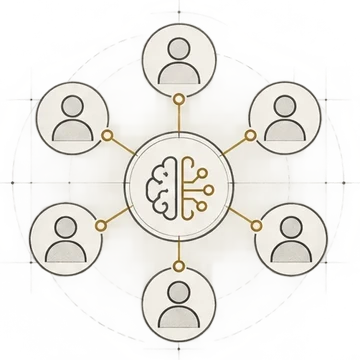
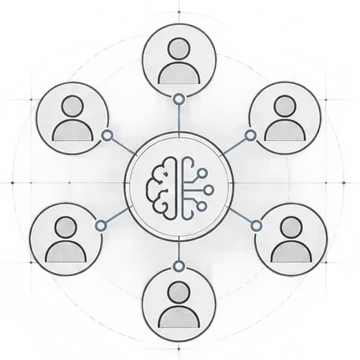
Content: program-first positioning, AI partner standard project, resume alignment
- Hero label, intro, page title and share text lead with technology programs
  and risk; contact lede leads with technical program roles
- New Selected Work card (03 of 05): aligning to a strategic AI partner's
  model-use standard, described at a high level and marked in progress
- Approach says rotating teams of 8-12
- AI enablement shows about 200 professionals; Microsoft entry adds about a
  dozen engagements a year, CFO reporting and AI governance
- Education card adds the Penn State IST Alumni Society board role
- Work illustrations recolored from gold to pewter, plus a new one for the
  AI standard card

Claude-Session: https://claude.ai/code/session_01SV6FrQDzMVaRoXeUdrznHo

diff --git a/index.html b/index.html
@@ -3,13 +3,13 @@
 <head>
 <meta charset="utf-8">
 <meta name="viewport" content="width=device-width, initial-scale=1">
-<meta name="description" content="Security and technology-risk leader at Microsoft. I bring clarity to complex technology decisions, working with engineers, aligning stakeholders, and helping leaders decide what happens next.">
+<meta name="description" content="Technology and risk leader at Microsoft. I bring clarity to complex technology decisions, working with engineers, aligning stakeholders, and helping leaders decide what happens next.">
 <link rel="canonical" href="https://www.nikita.page/">
 <meta property="og:type" content="website">
 <meta property="og:url" content="https://www.nikita.page/">
 <meta property="og:site_name" content="Nikita Page">
 <meta property="og:title" content="Nikita Page | Security and technology leadership">
-<meta property="og:description" content="Security and technology-risk leader at Microsoft. I bring clarity to complex technology decisions, working with engineers, aligning stakeholders, and helping leaders decide what happens next.">
+<meta property="og:description" content="Technology and risk leader at Microsoft. I bring clarity to complex technology decisions, working with engineers, aligning stakeholders, and helping leaders decide what happens next.">
 <meta property="og:image" content="https://www.nikita.page/assets/og-image.jpg">
 <meta property="og:image:width" content="1200">
 <meta property="og:image:height" content="630">
@@ -573,9 +573,9 @@ a:focus-visible,button:focus-visible{outline:2px solid #7D8691;outline-offset:3p
 
 
 <div data-np="hero" class="hero-content" style="position: relative; z-index: 10; align-self: stretch; box-sizing: border-box; display: flex; flex-direction: column; align-items: flex-start; text-align: left; will-change: transform, opacity">
-<div style="font-size: 11px; text-transform: uppercase; letter-spacing: 0.2em; color: rgba(55,56,58,0.68); font-weight: 500; margin-bottom: 18px">Nikita Page <span style="margin: 0 8px; opacity: 0.5">|</span> Security and technology leadership</div>
+<div style="font-size: 11px; text-transform: uppercase; letter-spacing: 0.2em; color: rgba(55,56,58,0.68); font-weight: 500; margin-bottom: 18px">Nikita Page <span style="margin: 0 8px; opacity: 0.5">|</span> Technology programs, risk and applied AI</div>
 <h1 class="serif hero-h1" style="margin: 0; max-width: 12.5em; line-height: 1.08; letter-spacing: -0.035em; color: #37383A; font-weight: 400">I bring clarity to complex technology decisions.</h1>
-<p class="hero-sub" style="margin-bottom: 0; font-size: 14px; color: rgba(55,56,58,0.7); line-height: 1.625">I’m a security and technology-risk leader at Microsoft. I work with engineers to understand complex systems, bring stakeholders together around the risks, and help leaders decide what needs to happen next.<span class="hide-m"> My work spans LinkedIn, Xbox and Copilot, with hands-on experience building AI tools that support the people doing the work.</span></p>
+<p class="hero-sub" style="margin-bottom: 0; font-size: 14px; color: rgba(55,56,58,0.7); line-height: 1.625">I’m a technology and risk leader at Microsoft. I work with engineers to understand complex systems, bring stakeholders together around the risks, and help leaders decide what needs to happen next.<span class="hide-m"> My work spans LinkedIn, Xbox and Copilot, with hands-on experience building AI tools that support the people doing the work.</span></p>
 <div class="hero-cta" style="display: flex; flex-wrap: wrap; gap: 12px"><a class="btn btn-hero" href="#work">Explore my work</a><a class="btn btn-hero btn-ghost" href="Nikita-Page-Resume.pdf" target="_blank" rel="noopener">View my resume</a></div>
 <div class="hero-facts-m">10 years across 8 industry sectors · Microsoft · Verizon · KPMG · Based in Denver</div>
 </div>
@@ -684,8 +684,9 @@ a:focus-visible,button:focus-visible{outline:2px solid #7D8691;outline-offset:3p
 <div class="deck-tabs" role="tablist" aria-label="Projects">
 <button class="deck-tab" type="button" role="tab" aria-selected="true"><span class="deck-tab-n">01</span><span class="deck-tab-t">Azure migration readiness across two acquisitions</span><span class="deck-tab-s">Azure migration</span><span class="deck-tab-bar" aria-hidden="true"></span></button>
 <button class="deck-tab" type="button" role="tab" aria-selected="false"><span class="deck-tab-n">02</span><span class="deck-tab-t">AI enablement for our entire department</span><span class="deck-tab-s">AI enablement</span><span class="deck-tab-bar" aria-hidden="true"></span></button>
-<button class="deck-tab" type="button" role="tab" aria-selected="false"><span class="deck-tab-n">03</span><span class="deck-tab-t">Establishing a shared view of secure development</span><span class="deck-tab-s">Secure development</span><span class="deck-tab-bar" aria-hidden="true"></span></button>
-<button class="deck-tab" type="button" role="tab" aria-selected="false"><span class="deck-tab-n">04</span><span class="deck-tab-t">An AI hub for evidence review</span><span class="deck-tab-s">AI evidence hub</span><span class="deck-tab-bar" aria-hidden="true"></span></button>
+<button class="deck-tab" type="button" role="tab" aria-selected="false"><span class="deck-tab-n">03</span><span class="deck-tab-t">Aligning to an AI partner’s model-use standard</span><span class="deck-tab-s">AI governance</span><span class="deck-tab-bar" aria-hidden="true"></span></button>
+<button class="deck-tab" type="button" role="tab" aria-selected="false"><span class="deck-tab-n">04</span><span class="deck-tab-t">Establishing a shared view of secure development</span><span class="deck-tab-s">Secure development</span><span class="deck-tab-bar" aria-hidden="true"></span></button>
+<button class="deck-tab" type="button" role="tab" aria-selected="false"><span class="deck-tab-n">05</span><span class="deck-tab-t">An AI hub for evidence review</span><span class="deck-tab-s">AI evidence hub</span><span class="deck-tab-bar" aria-hidden="true"></span></button>
 </div>
 <div class="deck-main">
 <div class="deck-stack">
@@ -702,16 +703,26 @@ a:focus-visible,button:focus-visible{outline:2px solid #7D8691;outline-offset:3p
 <article class="work-card deck-card" data-pos="1" aria-hidden="true"><img loading="lazy" decoding="async" class="work-art" src="assets/work-enablement.webp" alt="">
 <div style="font-size: 11px; text-transform: uppercase; letter-spacing: 0.2em; color: rgba(55,56,58,0.68); font-weight: 500">02</div>
 <h3 class="serif" style="margin: 0; font-size: 28px; line-height: 1.18; letter-spacing: -0.02em; font-weight: 400">AI enablement for our entire department</h3>
-<div class="proof-line"><span>13 contributors</span><span>2 months</span><span>Entire department</span></div>
+<div class="proof-line"><span>13 contributors</span><span>2 months</span><span>About 200 professionals</span></div>
 <dl class="pw">
 <div><dt>Problem</dt><dd>Our audit, risk and compliance department needed practical, credible examples of how AI could support their everyday work.</dd></div>
 <div><dt>What I owned</dt><dd>I led 13 contributors over two months. I met contributors individually to shape their use cases, integrated them into one storyline across planning, fieldwork and reporting, and built the demo chatbots and interactive demo audit myself.</dd></div>
-<div><dt>Result</dt><dd>A one-hour enablement session for the entire department, with concrete demonstrations they could map to their own work.</dd></div>
+<div><dt>Result</dt><dd>A one-hour enablement session for the entire department, about 200 audit, risk and compliance professionals, with concrete demonstrations they could map to their own work.</dd></div>
 </dl>
 <div style="display: flex; flex-wrap: wrap; gap: 6px; margin-top: 4px"><span class="tlx-tag">Copilot Studio</span><span class="tlx-tag">Microsoft Foundry</span><span class="tlx-tag">Azure</span></div>
 </article>
-<article class="work-card deck-card" data-pos="2" aria-hidden="true"><img loading="lazy" decoding="async" class="work-art" src="assets/work-securedev.webp" alt="">
+<article class="work-card deck-card" data-pos="2" aria-hidden="true"><img loading="lazy" decoding="async" class="work-art" src="assets/work-ai-standard.webp" alt="">
 <div style="font-size: 11px; text-transform: uppercase; letter-spacing: 0.2em; color: rgba(55,56,58,0.68); font-weight: 500">03</div>
+<h3 class="serif" style="margin: 0; font-size: 28px; line-height: 1.18; letter-spacing: -0.02em; font-weight: 400">Aligning to an AI partner’s model-use standard</h3>
+<div class="proof-line"><span>AI governance</span><span>Model access and use</span><span>In progress</span></div>
+<dl class="pw">
+<div><dt>Problem</dt><dd>A strategic AI partner sets privacy and security expectations for how its models are accessed and used, and Microsoft needs a clear view of how its own controls line up against them.</dd></div>
+<div><dt>What I own</dt><dd>I’m assessing that alignment: translating the standard into testable requirements and testing controls over data retention, access and enforcement across the channels where the models are used.</dd></div>
+<div><dt>Result</dt><dd>Work in progress, building a clear picture of where controls already align and where they need attention, to guide remediation.</dd></div>
+</dl>
+</article>
+<article class="work-card deck-card" data-pos="3" aria-hidden="true"><img loading="lazy" decoding="async" class="work-art" src="assets/work-securedev.webp" alt="">
+<div style="font-size: 11px; text-transform: uppercase; letter-spacing: 0.2em; color: rgba(55,56,58,0.68); font-weight: 500">04</div>
 <h3 class="serif" style="margin: 0; font-size: 28px; line-height: 1.18; letter-spacing: -0.02em; font-weight: 400">Establishing a shared view of secure development</h3>
 <div class="proof-line"><span>ABK, ZeniMax and Minecraft</span><span>Gaming audit planning</span></div>
 <dl class="pw">
@@ -721,7 +732,7 @@ a:focus-visible,button:focus-visible{outline:2px solid #7D8691;outline-offset:3p
 </dl>
 </article>
 <article class="work-card deck-card" data-pos="3" aria-hidden="true"><img loading="lazy" decoding="async" class="work-art" src="assets/work-evidence.webp" alt="">
-<div style="font-size: 11px; text-transform: uppercase; letter-spacing: 0.2em; color: rgba(55,56,58,0.68); font-weight: 500">04</div>
+<div style="font-size: 11px; text-transform: uppercase; letter-spacing: 0.2em; color: rgba(55,56,58,0.68); font-weight: 500">05</div>
 <h3 class="serif" style="margin: 0; font-size: 28px; line-height: 1.18; letter-spacing: -0.02em; font-weight: 400">An AI hub for evidence review</h3>
 <div class="proof-line"><span>Built personally</span><span>Applied on one audit</span><span>Auditor-reviewed</span></div>
 <dl class="pw">
@@ -733,7 +744,7 @@ a:focus-visible,button:focus-visible{outline:2px solid #7D8691;outline-offset:3p
 </div>
 <div class="deck-controls">
 <button class="deck-btn deck-prev" type="button" aria-label="Previous project"><svg viewBox="0 0 24 24" fill="none" stroke="currentColor" stroke-width="2" stroke-linecap="round" stroke-linejoin="round" aria-hidden="true" style="width: 18px; height: 18px"><path d="M19 12H5"></path><path d="m12 19-7-7 7-7"></path></svg></button>
-<span class="deck-count" aria-live="polite">01 / 04</span>
+<span class="deck-count" aria-live="polite">01 / 05</span>
 <button class="deck-btn deck-next" type="button" aria-label="Next project"><svg viewBox="0 0 24 24" fill="none" stroke="currentColor" stroke-width="2" stroke-linecap="round" stroke-linejoin="round" aria-hidden="true" style="width: 18px; height: 18px"><path d="M5 12h14"></path><path d="m12 5 7 7-7 7"></path></svg></button>
 </div>
 </div>
@@ -854,7 +865,7 @@ a:focus-visible,button:focus-visible{outline:2px solid #7D8691;outline-offset:3p
 <div class="appr-art"><img loading="lazy" decoding="async" src="assets/approach-shared.webp" alt=""></div>
 <div style="font-size: 11px; text-transform: uppercase; letter-spacing: 0.2em; color: rgba(55,56,58,0.6); font-weight: 500">02</div>
 <h3 class="serif" style="margin: 0; font-size: 26px; line-height: 1.2; letter-spacing: -0.02em; font-weight: 400">Find the shared picture</h3>
-<p style="margin: 0; font-size: 15px; line-height: 1.65; color: rgba(55,56,58,0.8)">I lead teams of 8–12 and make scope, ownership and dependencies clear, so everyone can see how their work fits together.</p>
+<p style="margin: 0; font-size: 15px; line-height: 1.65; color: rgba(55,56,58,0.8)">I lead rotating teams of 8–12 and make scope, ownership and dependencies clear, so everyone can see how their work fits together.</p>
 </article>
 <article class="appr-card">
 <div class="appr-art"><img loading="lazy" decoding="async" src="assets/approach-decision.webp" alt=""></div>
@@ -880,7 +891,7 @@ a:focus-visible,button:focus-visible{outline:2px solid #7D8691;outline-offset:3p
 </div>
 <h3 class="serif" style="margin: 20px 0 0; font-size: 26px; line-height: 1.2; letter-spacing: -0.02em; font-weight: 400">Senior IT Audit Manager</h3>
 <div style="margin-top: 4px; font-size: 14px; color: rgba(55,56,58,0.68)">Microsoft</div>
-<p style="margin: 14px 0 0; font-size: 15px; line-height: 1.65; color: rgba(55,56,58,0.85)">I lead security, AI and operational-risk engagements across Microsoft’s product, engineering and infrastructure organizations, from scoping through executive reporting. My work includes LinkedIn, Xbox and Copilot, alongside advisory and assessment work across cloud, hardware and datacenters.</p>
+<p style="margin: 14px 0 0; font-size: 15px; line-height: 1.65; color: rgba(55,56,58,0.85)">I lead security, AI and operational-risk engagements across Microsoft’s product, engineering and infrastructure organizations, from scoping through executive reporting. I run about a dozen engagements a year, and engagement reports are distributed to the CFO. My work includes LinkedIn, Xbox and Copilot, alongside AI governance, advisory and assessment work across cloud, hardware and datacenters.</p>
 </article>
 <div class="tlx-side">
 <div class="serif tlx-year">2021</div>
@@ -940,6 +951,7 @@ a:focus-visible,button:focus-visible{outline:2px solid #7D8691;outline-offset:3p
 </div>
 <h3 class="serif" style="margin: 20px 0 0; font-size: 26px; line-height: 1.2; letter-spacing: -0.02em; font-weight: 400">B.S. in Information Sciences and Technology</h3>
 <div style="margin-top: 4px; font-size: 14px; color: rgba(55,56,58,0.68)">Penn State University</div>
+<p style="margin: 16px 0 0; font-size: 15px; line-height: 1.65; color: rgba(55,56,58,0.8)">I also served on the Board of Directors of the Penn State IST Alumni Society (2018–2026), organizing alumni-student programs including IST ConnectX, iConnect Live and Hackathon 101, and leading student workshops and technical learning sessions.</p>
 
 </article>
 <div class="tlx-side">
@@ -1032,7 +1044,7 @@ a:focus-visible,button:focus-visible{outline:2px solid #7D8691;outline-offset:3p
 <div class="ct-intro">
 <div style="font-size: 11px; text-transform: uppercase; letter-spacing: 0.2em; color: rgba(255,255,255,0.55); font-weight: 500">Contact</div>
 <h2 class="serif sec-h2" style="margin: 12px 0 0; line-height: 1.08; letter-spacing: -0.03em; font-weight: 400; color: #FFFFFF">Let’s talk about what comes next.</h2>
-<p class="ct-lede">I’m interested in security and technology-risk leadership, as well as technical program roles that draw on my experience with complex systems and cross-team coordination. If that sounds like the work your team is doing, I’d welcome a conversation.</p>
+<p class="ct-lede">I’m interested in technical program and program management roles that draw on my experience with complex systems and cross-team coordination, as well as technology-risk and AI governance work. If that sounds like the work your team is doing, I’d welcome a conversation.</p>
 <ul class="ct-list">
 <li><a href="mailto:connect@nikita.page"><span class="ct-ic"><svg viewBox="0 0 24 24" fill="none" stroke="currentColor" stroke-width="1.7" stroke-linecap="round" stroke-linejoin="round" aria-hidden="true"><rect x="3" y="5" width="18" height="14" rx="2"/><path d="m3.5 6.5 8.5 6 8.5-6"/></svg></span><span class="ct-txt"><span class="ct-k">Email</span><span class="ct-v">connect@nikita.page</span></span><span class="ct-go"><svg viewBox="0 0 24 24" fill="none" stroke="currentColor" stroke-width="1.7" stroke-linecap="round" stroke-linejoin="round" aria-hidden="true"><path d="M7 17 17 7M9 7h8v8"/></svg></span></a></li>
 <li><a href="https://www.linkedin.com/in/nikitapage" target="_blank" rel="noopener"><span class="ct-ic"><svg viewBox="0 0 24 24" fill="none" stroke="currentColor" stroke-width="1.7" stroke-linecap="round" stroke-linejoin="round" aria-hidden="true"><rect x="3" y="3" width="18" height="18" rx="3"/><path d="M8 10.5V16M8 7.6v.01M11.5 16v-3.2c0-1.4 1-2.3 2.2-2.3s2.1.9 2.1 2.3V16M11.5 10.5V16"/></svg></span><span class="ct-txt"><span class="ct-k">LinkedIn</span><span class="ct-v">linkedin.com/in/nikitapage</span></span><span class="ct-go"><svg viewBox="0 0 24 24" fill="none" stroke="currentColor" stroke-width="1.7" stroke-linecap="round" stroke-linejoin="round" aria-hidden="true"><path d="M7 17 17 7M9 7h8v8"/></svg></span></a></li>

diff --git a/design/Main.dc.html b/design/Main.dc.html
@@ -2,7 +2,7 @@
 <html lang="en">
 <head>
 <meta charset="utf-8">
-<title>Nikita Page | Security and technology leadership</title>
+<title>Nikita Page | Technology programs, risk and applied AI</title>
 <script src="./support.js"></script>
 </head>
 <body>
@@ -571,9 +571,9 @@ a:focus-visible,button:focus-visible{outline:2px solid #7D8691;outline-offset:3p
 
 
 <div ref="{{setHero}}" class="hero-content" style="position: relative; z-index: 10; align-self: stretch; box-sizing: border-box; display: flex; flex-direction: column; align-items: flex-start; text-align: left; will-change: transform, opacity">
-<div style="font-size: 11px; text-transform: uppercase; letter-spacing: 0.2em; color: rgba(55,56,58,0.68); font-weight: 500; margin-bottom: 18px">Nikita Page <span style="margin: 0 8px; opacity: 0.5">|</span> Security and technology leadership</div>
+<div style="font-size: 11px; text-transform: uppercase; letter-spacing: 0.2em; color: rgba(55,56,58,0.68); font-weight: 500; margin-bottom: 18px">Nikita Page <span style="margin: 0 8px; opacity: 0.5">|</span> Technology programs, risk and applied AI</div>
 <h1 class="serif hero-h1" style="margin: 0; max-width: 12.5em; line-height: 1.08; letter-spacing: -0.035em; color: #37383A; font-weight: 400">I bring clarity to complex technology decisions.</h1>
-<p class="hero-sub" style="margin-bottom: 0; font-size: 14px; color: rgba(55,56,58,0.7); line-height: 1.625">I’m a security and technology-risk leader at Microsoft. I work with engineers to understand complex systems, bring stakeholders together around the risks, and help leaders decide what needs to happen next.<span class="hide-m"> My work spans LinkedIn, Xbox and Copilot, with hands-on experience building AI tools that support the people doing the work.</span></p>
+<p class="hero-sub" style="margin-bottom: 0; font-size: 14px; color: rgba(55,56,58,0.7); line-height: 1.625">I’m a technology and risk leader at Microsoft. I work with engineers to understand complex systems, bring stakeholders together around the risks, and help leaders decide what needs to happen next.<span class="hide-m"> My work spans LinkedIn, Xbox and Copilot, with hands-on experience building AI tools that support the people doing the work.</span></p>
 <div class="hero-cta" style="display: flex; flex-wrap: wrap; gap: 12px"><a class="btn btn-hero" href="#work">Explore my work</a><a class="btn btn-hero btn-ghost" href="Resume.dc.html">View my resume</a></div>
 <div class="hero-facts-m">10 years across 8 industry sectors · Microsoft · Verizon · KPMG · Based in Denver</div>
 </div>
@@ -682,12 +682,13 @@ a:focus-visible,button:focus-visible{outline:2px solid #7D8691;outline-offset:3p
 <div class="deck-tabs" role="tablist" aria-label="Projects">
 <button class="deck-tab" type="button" role="tab" aria-selected="true"><span class="deck-tab-n">01</span><span class="deck-tab-t">Azure migration readiness across two acquisitions</span><span class="deck-tab-s">Azure migration</span><span class="deck-tab-bar" aria-hidden="true"></span></button>
 <button class="deck-tab" type="button" role="tab" aria-selected="false"><span class="deck-tab-n">02</span><span class="deck-tab-t">AI enablement for our entire department</span><span class="deck-tab-s">AI enablement</span><span class="deck-tab-bar" aria-hidden="true"></span></button>
-<button class="deck-tab" type="button" role="tab" aria-selected="false"><span class="deck-tab-n">03</span><span class="deck-tab-t">Establishing a shared view of secure development</span><span class="deck-tab-s">Secure development</span><span class="deck-tab-bar" aria-hidden="true"></span></button>
-<button class="deck-tab" type="button" role="tab" aria-selected="false"><span class="deck-tab-n">04</span><span class="deck-tab-t">An AI hub for evidence review</span><span class="deck-tab-s">AI evidence hub</span><span class="deck-tab-bar" aria-hidden="true"></span></button>
+<button class="deck-tab" type="button" role="tab" aria-selected="false"><span class="deck-tab-n">03</span><span class="deck-tab-t">Aligning to an AI partner’s model-use standard</span><span class="deck-tab-s">AI governance</span><span class="deck-tab-bar" aria-hidden="true"></span></button>
+<button class="deck-tab" type="button" role="tab" aria-selected="false"><span class="deck-tab-n">04</span><span class="deck-tab-t">Establishing a shared view of secure development</span><span class="deck-tab-s">Secure development</span><span class="deck-tab-bar" aria-hidden="true"></span></button>
+<button class="deck-tab" type="button" role="tab" aria-selected="false"><span class="deck-tab-n">05</span><span class="deck-tab-t">An AI hub for evidence review</span><span class="deck-tab-s">AI evidence hub</span><span class="deck-tab-bar" aria-hidden="true"></span></button>
 </div>
 <div class="deck-main">
 <div class="deck-stack">
-<article class="work-card deck-card" data-pos="0" aria-hidden="false"><img class="work-art" src="/_blob/4cefba8785268eb628d6f7fdc83338a0" alt="">
+<article class="work-card deck-card" data-pos="0" aria-hidden="false"><img class="work-art" src="/_blob/63a4e942c38523db37dcfd0c586c0d23" alt="">
 <div style="font-size: 11px; text-transform: uppercase; letter-spacing: 0.2em; color: rgba(55,56,58,0.68); font-weight: 500">01</div>
 <h3 class="serif" style="margin: 0; font-size: 28px; line-height: 1.18; letter-spacing: -0.02em; font-weight: 400">Azure migration readiness across two acquisitions</h3>
 <div class="proof-line"><span>2 acquisitions</span><span>Migration readiness and ownership</span></div>
@@ -697,19 +698,29 @@ a:focus-visible,button:focus-visible{outline:2px solid #7D8691;outline-offset:3p
 <div><dt>Result</dt><dd>A structured view of ownership and readiness, agreed with a senior executive, to inform migration decisions.</dd></div>
 </dl>
 </article>
-<article class="work-card deck-card" data-pos="1" aria-hidden="true"><img class="work-art" src="/_blob/31432c3e8a34120a2325c508c727bb9d" alt="">
+<article class="work-card deck-card" data-pos="1" aria-hidden="true"><img class="work-art" src="/_blob/75763187c55913a427f4e7496b55120a" alt="">
 <div style="font-size: 11px; text-transform: uppercase; letter-spacing: 0.2em; color: rgba(55,56,58,0.68); font-weight: 500">02</div>
 <h3 class="serif" style="margin: 0; font-size: 28px; line-height: 1.18; letter-spacing: -0.02em; font-weight: 400">AI enablement for our entire department</h3>
-<div class="proof-line"><span>13 contributors</span><span>2 months</span><span>Entire department</span></div>
+<div class="proof-line"><span>13 contributors</span><span>2 months</span><span>About 200 professionals</span></div>
 <dl class="pw">
 <div><dt>Problem</dt><dd>Our audit, risk and compliance department needed practical, credible examples of how AI could support their everyday work.</dd></div>
 <div><dt>What I owned</dt><dd>I led 13 contributors over two months. I met contributors individually to shape their use cases, integrated them into one storyline across planning, fieldwork and reporting, and built the demo chatbots and interactive demo audit myself.</dd></div>
-<div><dt>Result</dt><dd>A one-hour enablement session for the entire department, with concrete demonstrations they could map to their own work.</dd></div>
+<div><dt>Result</dt><dd>A one-hour enablement session for the entire department, about 200 audit, risk and compliance professionals, with concrete demonstrations they could map to their own work.</dd></div>
 </dl>
 <div style="display: flex; flex-wrap: wrap; gap: 6px; margin-top: 4px"><span class="tlx-tag">Copilot Studio</span><span class="tlx-tag">Microsoft Foundry</span><span class="tlx-tag">Azure</span></div>
 </article>
-<article class="work-card deck-card" data-pos="2" aria-hidden="true"><img class="work-art" src="/_blob/7bdd5f0eaca0940a9cea751541684b90" alt="">
+<article class="work-card deck-card" data-pos="2" aria-hidden="true"><img class="work-art" src="/_blob/1b8ac6cf3539ea2abfee079108aeeb62" alt="">
 <div style="font-size: 11px; text-transform: uppercase; letter-spacing: 0.2em; color: rgba(55,56,58,0.68); font-weight: 500">03</div>
+<h3 class="serif" style="margin: 0; font-size: 28px; line-height: 1.18; letter-spacing: -0.02em; font-weight: 400">Aligning to an AI partner’s model-use standard</h3>
+<div class="proof-line"><span>AI governance</span><span>Model access and use</span><span>In progress</span></div>
+<dl class="pw">
+<div><dt>Problem</dt><dd>A strategic AI partner sets privacy and security expectations for how its models are accessed and used, and Microsoft needs a clear view of how its own controls line up against them.</dd></div>
+<div><dt>What I own</dt><dd>I’m assessing that alignment: translating the standard into testable requirements and testing controls over data retention, access and enforcement across the channels where the models are used.</dd></div>
+<div><dt>Result</dt><dd>Work in progress, building a clear picture of where controls already align and where they need attention, to guide remediation.</dd></div>
+</dl>
+</article>
+<article class="work-card deck-card" data-pos="3" aria-hidden="true"><img class="work-art" src="/_blob/43f18def865be815a4cf272a68ab9c9c" alt="">
+<div style="font-size: 11px; text-transform: uppercase; letter-spacing: 0.2em; color: rgba(55,56,58,0.68); font-weight: 500">04</div>
 <h3 class="serif" style="margin: 0; font-size: 28px; line-height: 1.18; letter-spacing: -0.02em; font-weight: 400">Establishing a shared view of secure development</h3>
 <div class="proof-line"><span>ABK, ZeniMax and Minecraft</span><span>Gaming audit planning</span></div>
 <dl class="pw">
@@ -718,8 +729,8 @@ a:focus-visible,button:focus-visible{outline:2px solid #7D8691;outline-offset:3p
 <div><dt>Result</dt><dd>A shared secure-development baseline for subsequent gaming audit planning.</dd></div>
 </dl>
 </article>
-<article class="work-card deck-card" data-pos="3" aria-hidden="true"><img class="work-art" src="/_blob/3415aa425ddd9e431d0abaa0a737ff9a" alt="">
-<div style="font-size: 11px; text-transform: uppercase; letter-spacing: 0.2em; color: rgba(55,56,58,0.68); font-weight: 500">04</div>
+<article class="work-card deck-card" data-pos="3" aria-hidden="true"><img class="work-art" src="/_blob/81c4b773e75f956b1b89a53c21957579" alt="">
+<div style="font-size: 11px; text-transform: uppercase; letter-spacing: 0.2em; color: rgba(55,56,58,0.68); font-weight: 500">05</div>
 <h3 class="serif" style="margin: 0; font-size: 28px; line-height: 1.18; letter-spacing: -0.02em; font-weight: 400">An AI hub for evidence review</h3>
 <div class="proof-line"><span>Built personally</span><span>Applied on one audit</span><span>Auditor-reviewed</span></div>
 <dl class="pw">
@@ -731,7 +742,7 @@ a:focus-visible,button:focus-visible{outline:2px solid #7D8691;outline-offset:3p
 </div>
 <div class="deck-controls">
 <button class="deck-btn deck-prev" type="button" aria-label="Previous project"><svg viewBox="0 0 24 24" fill="none" stroke="currentColor" stroke-width="2" stroke-linecap="round" stroke-linejoin="round" aria-hidden="true" style="width: 18px; height: 18px"><path d="M19 12H5"></path><path d="m12 19-7-7 7-7"></path></svg></button>
-<span class="deck-count" aria-live="polite">01 / 04</span>
+<span class="deck-count" aria-live="polite">01 / 05</span>
 <button class="deck-btn deck-next" type="button" aria-label="Next project"><svg viewBox="0 0 24 24" fill="none" stroke="currentColor" stroke-width="2" stroke-linecap="round" stroke-linejoin="round" aria-hidden="true" style="width: 18px; height: 18px"><path d="M5 12h14"></path><path d="m12 5 7 7-7 7"></path></svg></button>
 </div>
 </div>
@@ -852,7 +863,7 @@ a:focus-visible,button:focus-visible{outline:2px solid #7D8691;outline-offset:3p
 <div class="appr-art"><img src="/_blob/5a799255273e51b591df1fc25d8fe70b" alt=""></div>
 <div style="font-size: 11px; text-transform: uppercase; letter-spacing: 0.2em; color: rgba(55,56,58,0.6); font-weight: 500">02</div>
 <h3 class="serif" style="margin: 0; font-size: 26px; line-height: 1.2; letter-spacing: -0.02em; font-weight: 400">Find the shared picture</h3>
-<p style="margin: 0; font-size: 15px; line-height: 1.65; color: rgba(55,56,58,0.8)">I lead teams of 8–12 and make scope, ownership and dependencies clear, so everyone can see how their work fits together.</p>
+<p style="margin: 0; font-size: 15px; line-height: 1.65; color: rgba(55,56,58,0.8)">I lead rotating teams of 8–12 and make scope, ownership and dependencies clear, so everyone can see how their work fits together.</p>
 </article>
 <article class="appr-card">
 <div class="appr-art"><img src="/_blob/81976d1b13c9fe451785a1a34783cfb9" alt=""></div>
@@ -878,7 +889,7 @@ a:focus-visible,button:focus-visible{outline:2px solid #7D8691;outline-offset:3p
 </div>
 <h3 class="serif" style="margin: 20px 0 0; font-size: 26px; line-height: 1.2; letter-spacing: -0.02em; font-weight: 400">Senior IT Audit Manager</h3>
 <div style="margin-top: 4px; font-size: 14px; color: rgba(55,56,58,0.68)">Microsoft</div>
-<p style="margin: 14px 0 0; font-size: 15px; line-height: 1.65; color: rgba(55,56,58,0.85)">I lead security, AI and operational-risk engagements across Microsoft’s product, engineering and infrastructure organizations, from scoping through executive reporting. My work includes LinkedIn, Xbox and Copilot, alongside advisory and assessment work across cloud, hardware and datacenters.</p>
+<p style="margin: 14px 0 0; font-size: 15px; line-height: 1.65; color: rgba(55,56,58,0.85)">I lead security, AI and operational-risk engagements across Microsoft’s product, engineering and infrastructure organizations, from scoping through executive reporting. I run about a dozen engagements a year, and engagement reports are distributed to the CFO. My work includes LinkedIn, Xbox and Copilot, alongside AI governance, advisory and assessment work across cloud, hardware and datacenters.</p>
 </article>
 <div class="tlx-side">
 <div class="serif tlx-year">2021</div>
@@ -938,6 +949,7 @@ a:focus-visible,button:focus-visible{outline:2px solid #7D8691;outline-offset:3p
 </div>
 <h3 class="serif" style="margin: 20px 0 0; font-size: 26px; line-height: 1.2; letter-spacing: -0.02em; font-weight: 400">B.S. in Information Sciences and Technology</h3>
 <div style="margin-top: 4px; font-size: 14px; color: rgba(55,56,58,0.68)">Penn State University</div>
+<p style="margin: 16px 0 0; font-size: 15px; line-height: 1.65; color: rgba(55,56,58,0.8)">I also served on the Board of Directors of the Penn State IST Alumni Society (2018–2026), organizing alumni-student programs including IST ConnectX, iConnect Live and Hackathon 101, and leading student workshops and technical learning sessions.</p>
 
 </article>
 <div class="tlx-side">
@@ -1030,7 +1042,7 @@ a:focus-visible,button:focus-visible{outline:2px solid #7D8691;outline-offset:3p
 <div class="ct-intro">
 <div style="font-size: 11px; text-transform: uppercase; letter-spacing: 0.2em; color: rgba(255,255,255,0.55); font-weight: 500">Contact</div>
 <h2 class="serif sec-h2" style="margin: 12px 0 0; line-height: 1.08; letter-spacing: -0.03em; font-weight: 400; color: #FFFFFF">Let’s talk about what comes next.</h2>
-<p class="ct-lede">I’m interested in security and technology-risk leadership, as well as technical program roles that draw on my experience with complex systems and cross-team coordination. If that sounds like the work your team is doing, I’d welcome a conversation.</p>
+<p class="ct-lede">I’m interested in technical program and program management roles that draw on my experience with complex systems and cross-team coordination, as well as technology-risk and AI governance work. If that sounds like the work your team is doing, I’d welcome a conversation.</p>
 <ul class="ct-list">
 <li><a href="mailto:connect@nikita.page"><span class="ct-ic"><svg viewBox="0 0 24 24" fill="none" stroke="currentColor" stroke-width="1.7" stroke-linecap="round" stroke-linejoin="round" aria-hidden="true"><rect x="3" y="5" width="18" height="14" rx="2"/><path d="m3.5 6.5 8.5 6 8.5-6"/></svg></span><span class="ct-txt"><span class="ct-k">Email</span><span class="ct-v">connect@nikita.page</span></span><span class="ct-go"><svg viewBox="0 0 24 24" fill="none" stroke="currentColor" stroke-width="1.7" stroke-linecap="round" stroke-linejoin="round" aria-hidden="true"><path d="M7 17 17 7M9 7h8v8"/></svg></span></a></li>
 <li><a href="https://www.linkedin.com/in/nikitapage" target="_blank" rel="noopener"><span class="ct-ic"><svg viewBox="0 0 24 24" fill="none" stroke="currentColor" stroke-width="1.7" stroke-linecap="round" stroke-linejoin="round" aria-hidden="true"><rect x="3" y="3" width="18" height="18" rx="3"/><path d="M8 10.5V16M8 7.6v.01M11.5 16v-3.2c0-1.4 1-2.3 2.2-2.3s2.1.9 2.1 2.3V16M11.5 10.5V16"/></svg></span><span class="ct-txt"><span class="ct-k">LinkedIn</span><span class="ct-v">linkedin.com/in/nikitapage</span></span><span class="ct-go"><svg viewBox="0 0 24 24" fill="none" stroke="currentColor" stroke-width="1.7" stroke-linecap="round" stroke-linejoin="round" aria-hidden="true"><path d="M7 17 17 7M9 7h8v8"/></svg></span></a></li>

diff --git a/tools/build.js b/tools/build.js
@@ -19,10 +19,11 @@ const BLOBS = {
   "99cb99de82ed61c988c9a80fe8f2fb90": "assets/logo-mountain.webp",
   "3b87fb250a686f592abddf1d7929424c": "assets/track-cover.webp",
   "a378f43a05d4124142e84b4ac01885fe": "assets/hero-poster.webp",
-  "3415aa425ddd9e431d0abaa0a737ff9a": "assets/work-evidence.webp",
-  "31432c3e8a34120a2325c508c727bb9d": "assets/work-enablement.webp",
-  "4cefba8785268eb628d6f7fdc83338a0": "assets/work-migration.webp",
-  "7bdd5f0eaca0940a9cea751541684b90": "assets/work-securedev.webp",
+  "81c4b773e75f956b1b89a53c21957579": "assets/work-evidence.webp",
+  "1b8ac6cf3539ea2abfee079108aeeb62": "assets/work-ai-standard.webp",
+  "75763187c55913a427f4e7496b55120a": "assets/work-enablement.webp",
+  "63a4e942c38523db37dcfd0c586c0d23": "assets/work-migration.webp",
+  "43f18def865be815a4cf272a68ab9c9c": "assets/work-securedev.webp",
   "1ca8eacf17c61511b80495ad3bfcfec2": "assets/approach-system.webp",
   "5a799255273e51b591df1fc25d8fe70b": "assets/approach-shared.webp",
   "81976d1b13c9fe451785a1a34783cfb9": "assets/approach-decision.webp",
@@ -45,7 +46,7 @@ const BLOBS = {
 
 // Link previews (LinkedIn, Slack, iMessage, email) and the browser-tab icon.
 const SITE = 'https://www.nikita.page/';
-const SHARE_DESC = 'Security and technology-risk leader at Microsoft. I bring clarity to complex technology decisions, working with engineers, aligning stakeholders, and helping leaders decide what happens next.';
+const SHARE_DESC = 'Technology and risk leader at Microsoft. I bring clarity to complex technology decisions, working with engineers, aligning stakeholders, and helping leaders decide what happens next.';
 const SHARE = `
 <meta name="description" content="${SHARE_DESC}">
 <link rel="canonical" href="${SITE}">
